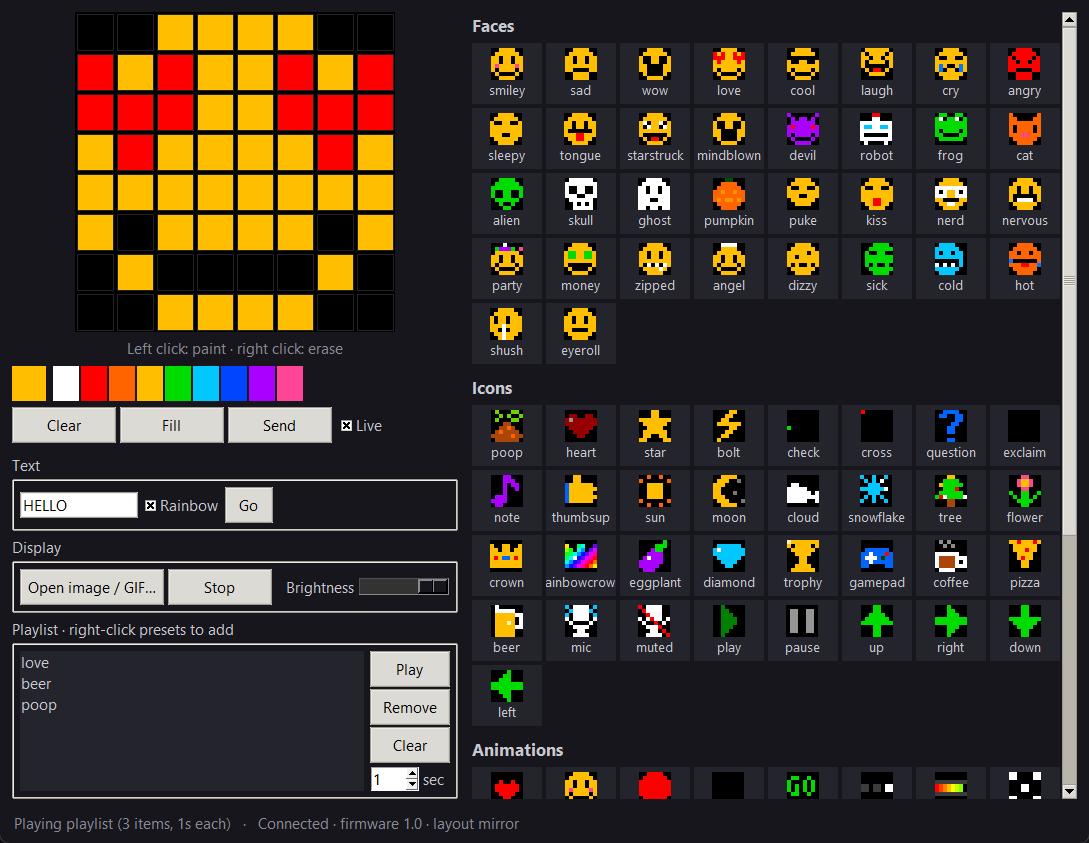
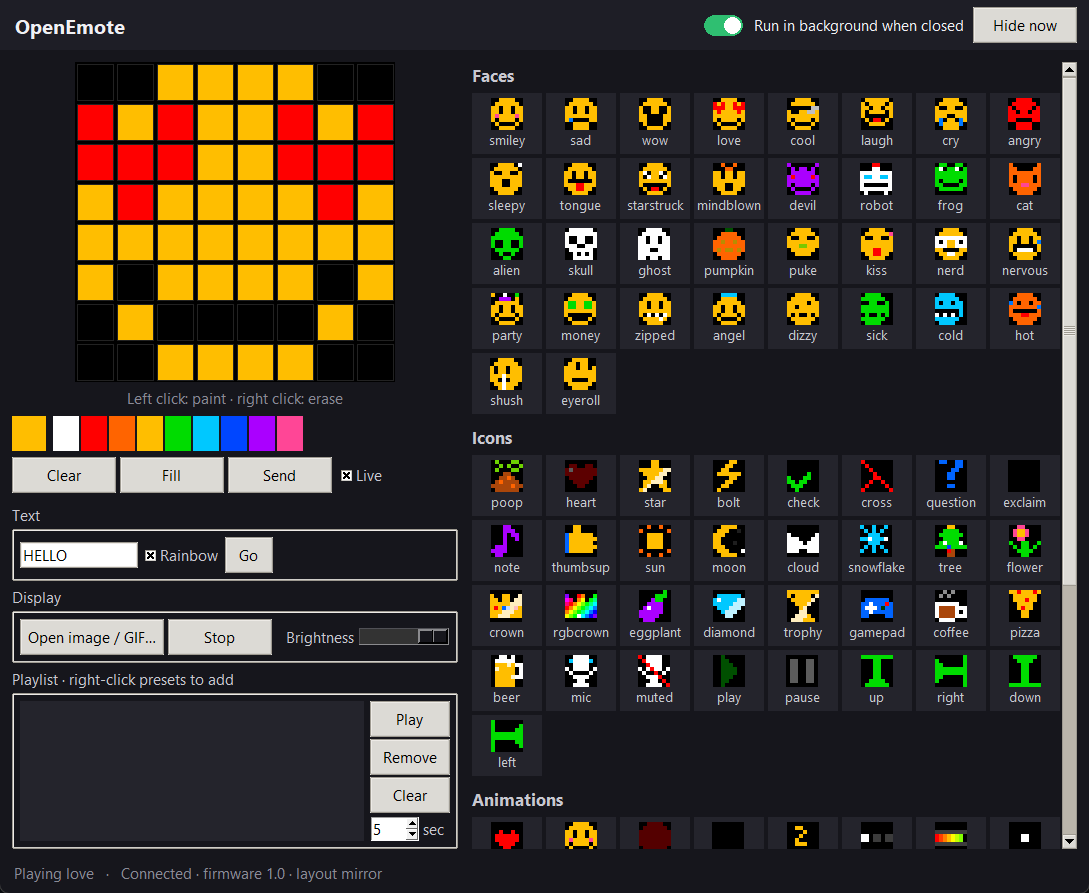
Background toggle in the app, drop tray registry tweak
- Top bar with a switch for "Run in background when closed" and a Hide now button
- Remove the code that changed the Windows tray icon setting

diff --git a/openemote/gui.py b/openemote/gui.py
@@ -4,7 +4,6 @@ from __future__ import annotations
 import atexit
 import json
 import os
-import sys
 import pathlib
 import threading
 import time
@@ -83,31 +82,6 @@ def thumbnail_image(frame: Frame) -> tk.PhotoImage:
     return img
 
 
-def _promote_tray_icon():
-    """Windows 11 hides new tray icons in the overflow menu. Show ours on the taskbar,
-    unless the user has already chosen a setting for it."""
-    if not getattr(sys, "frozen", False):
-        return  # running from Python: the entry would be python.exe, leave it alone
-    try:
-        import winreg
-        with winreg.OpenKey(winreg.HKEY_CURRENT_USER, r"Control Panel\NotifyIconSettings") as settings:
-            for i in range(winreg.QueryInfoKey(settings)[0]):
-                name = winreg.EnumKey(settings, i)
-                with winreg.OpenKey(settings, name, 0, winreg.KEY_READ | winreg.KEY_SET_VALUE) as key:
-                    try:
-                        path = winreg.QueryValueEx(key, "ExecutablePath")[0]
-                    except OSError:
-                        continue
-                    if not path.lower().endswith("\\" + os.path.basename(sys.executable).lower()):
-                        continue
-                    try:
-                        winreg.QueryValueEx(key, "IsPromoted")
-                    except OSError:
-                        winreg.SetValueEx(key, "IsPromoted", 0, winreg.REG_DWORD, 1)
-    except OSError:
-        pass
-
-
 class App:
     def __init__(self, root: tk.Tk, layout: str, brightness: float):
         self.root = root
@@ -155,6 +129,23 @@ class App:
         style.configure("TLabel", background=BG, foreground="#c8c8d0")
         style.configure("TCheckbutton", background=BG, foreground="#c8c8d0")
         style.configure("Status.TLabel", foreground="#8a8a96")
+
+        saved = self._load_settings()
+        self.tray_on_close = tk.BooleanVar(value=saved.get("tray", True))
+
+        # top bar: app name + background toggle
+        bar = tk.Frame(root, bg="#1e1e26")
+        bar.pack(fill="x")
+        tk.Label(bar, text="OpenEmote", bg="#1e1e26", fg="#f0f0f4",
+                 font=("Segoe UI", 12, "bold")).pack(side="left", padx=12, pady=8)
+        ttk.Button(bar, text="Hide now", command=self._hide_to_tray).pack(side="right", padx=(6, 12))
+        self.bg_label = tk.Label(bar, bg="#1e1e26", font=("Segoe UI", 9), cursor="hand2")
+        self.bg_label.pack(side="right")
+        self.bg_switch = tk.Canvas(bar, width=40, height=22, bg="#1e1e26", highlightthickness=0, cursor="hand2")
+        self.bg_switch.pack(side="right", padx=(0, 8))
+        for w in (self.bg_switch, self.bg_label):
+            w.bind("<Button-1>", lambda e: self._toggle_background())
+        self._draw_switch()
 
         main = ttk.Frame(root, padding=12)
         main.pack(fill="both", expand=True)
@@ -219,16 +210,11 @@ class App:
         ttk.Button(ctrl, text="Clear", width=8, command=lambda: self._playlist_set([])).pack()
         secs = ttk.Frame(ctrl)
         secs.pack(pady=(4, 0))
-        saved = self._load_settings()
         self.cycle_secs = tk.IntVar(value=saved.get("seconds", 5))
         tk.Spinbox(secs, from_=1, to=300, width=4, textvariable=self.cycle_secs,
                    command=self._save_playlist).pack(side="left")
         ttk.Label(secs, text="sec").pack(side="left", padx=2)
-        self.tray_on_close = tk.BooleanVar(value=saved.get("tray", True))
         self._playlist_set([n for n in saved.get("items", []) if n in PRESETS], save=False)
-
-        ttk.Checkbutton(left, text="Keep running in the tray when closed", variable=self.tray_on_close,
-                        command=self._save_playlist).pack(anchor="w", pady=(6, 0))
         root.protocol("WM_DELETE_WINDOW", self._on_close)
 
         # right: one long scrollable list of every preset
@@ -427,10 +413,32 @@ class App:
 
     # --- tray -----------------------------------------------------------------
 
-    def _on_close(self):
-        if self.tray_on_close.get() and self._start_tray():
+    def _draw_switch(self):
+        on = self.tray_on_close.get()
+        c = self.bg_switch
+        c.delete("all")
+        fill = "#2fbf71" if on else "#4a4a56"
+        c.create_oval(1, 1, 21, 21, fill=fill, outline=fill)
+        c.create_oval(19, 1, 39, 21, fill=fill, outline=fill)
+        c.create_rectangle(11, 1, 29, 21, fill=fill, outline=fill)
+        x = 21 if on else 3
+        c.create_oval(x, 3, x + 16, 19, fill="#ffffff", outline="#ffffff")
+        self.bg_label.configure(text="Run in background when closed" + ("" if on else " (off)"),
+                                fg="#f0f0f4" if on else "#8a8a96")
+
+    def _toggle_background(self):
+        self.tray_on_close.set(not self.tray_on_close.get())
+        self._draw_switch()
+        self._save_playlist()
+
+    def _hide_to_tray(self):
+        if self._start_tray():
             self.root.withdraw()
-        else:
+
+    def _on_close(self):
+        if self.tray_on_close.get():
+            self._hide_to_tray()
+        if self.root.state() != "withdrawn":
             self._quit()
 
     def _start_tray(self) -> bool:
@@ -455,7 +463,6 @@ class App:
             if not self._tray_hint_shown:
                 self._tray_hint_shown = True
                 tray.notify("Still running here. Right-click the smiley for options.", "OpenEmote")
-            threading.Timer(2.0, _promote_tray_icon).start()
 
         self._tray.run_detached(setup)
         return True
